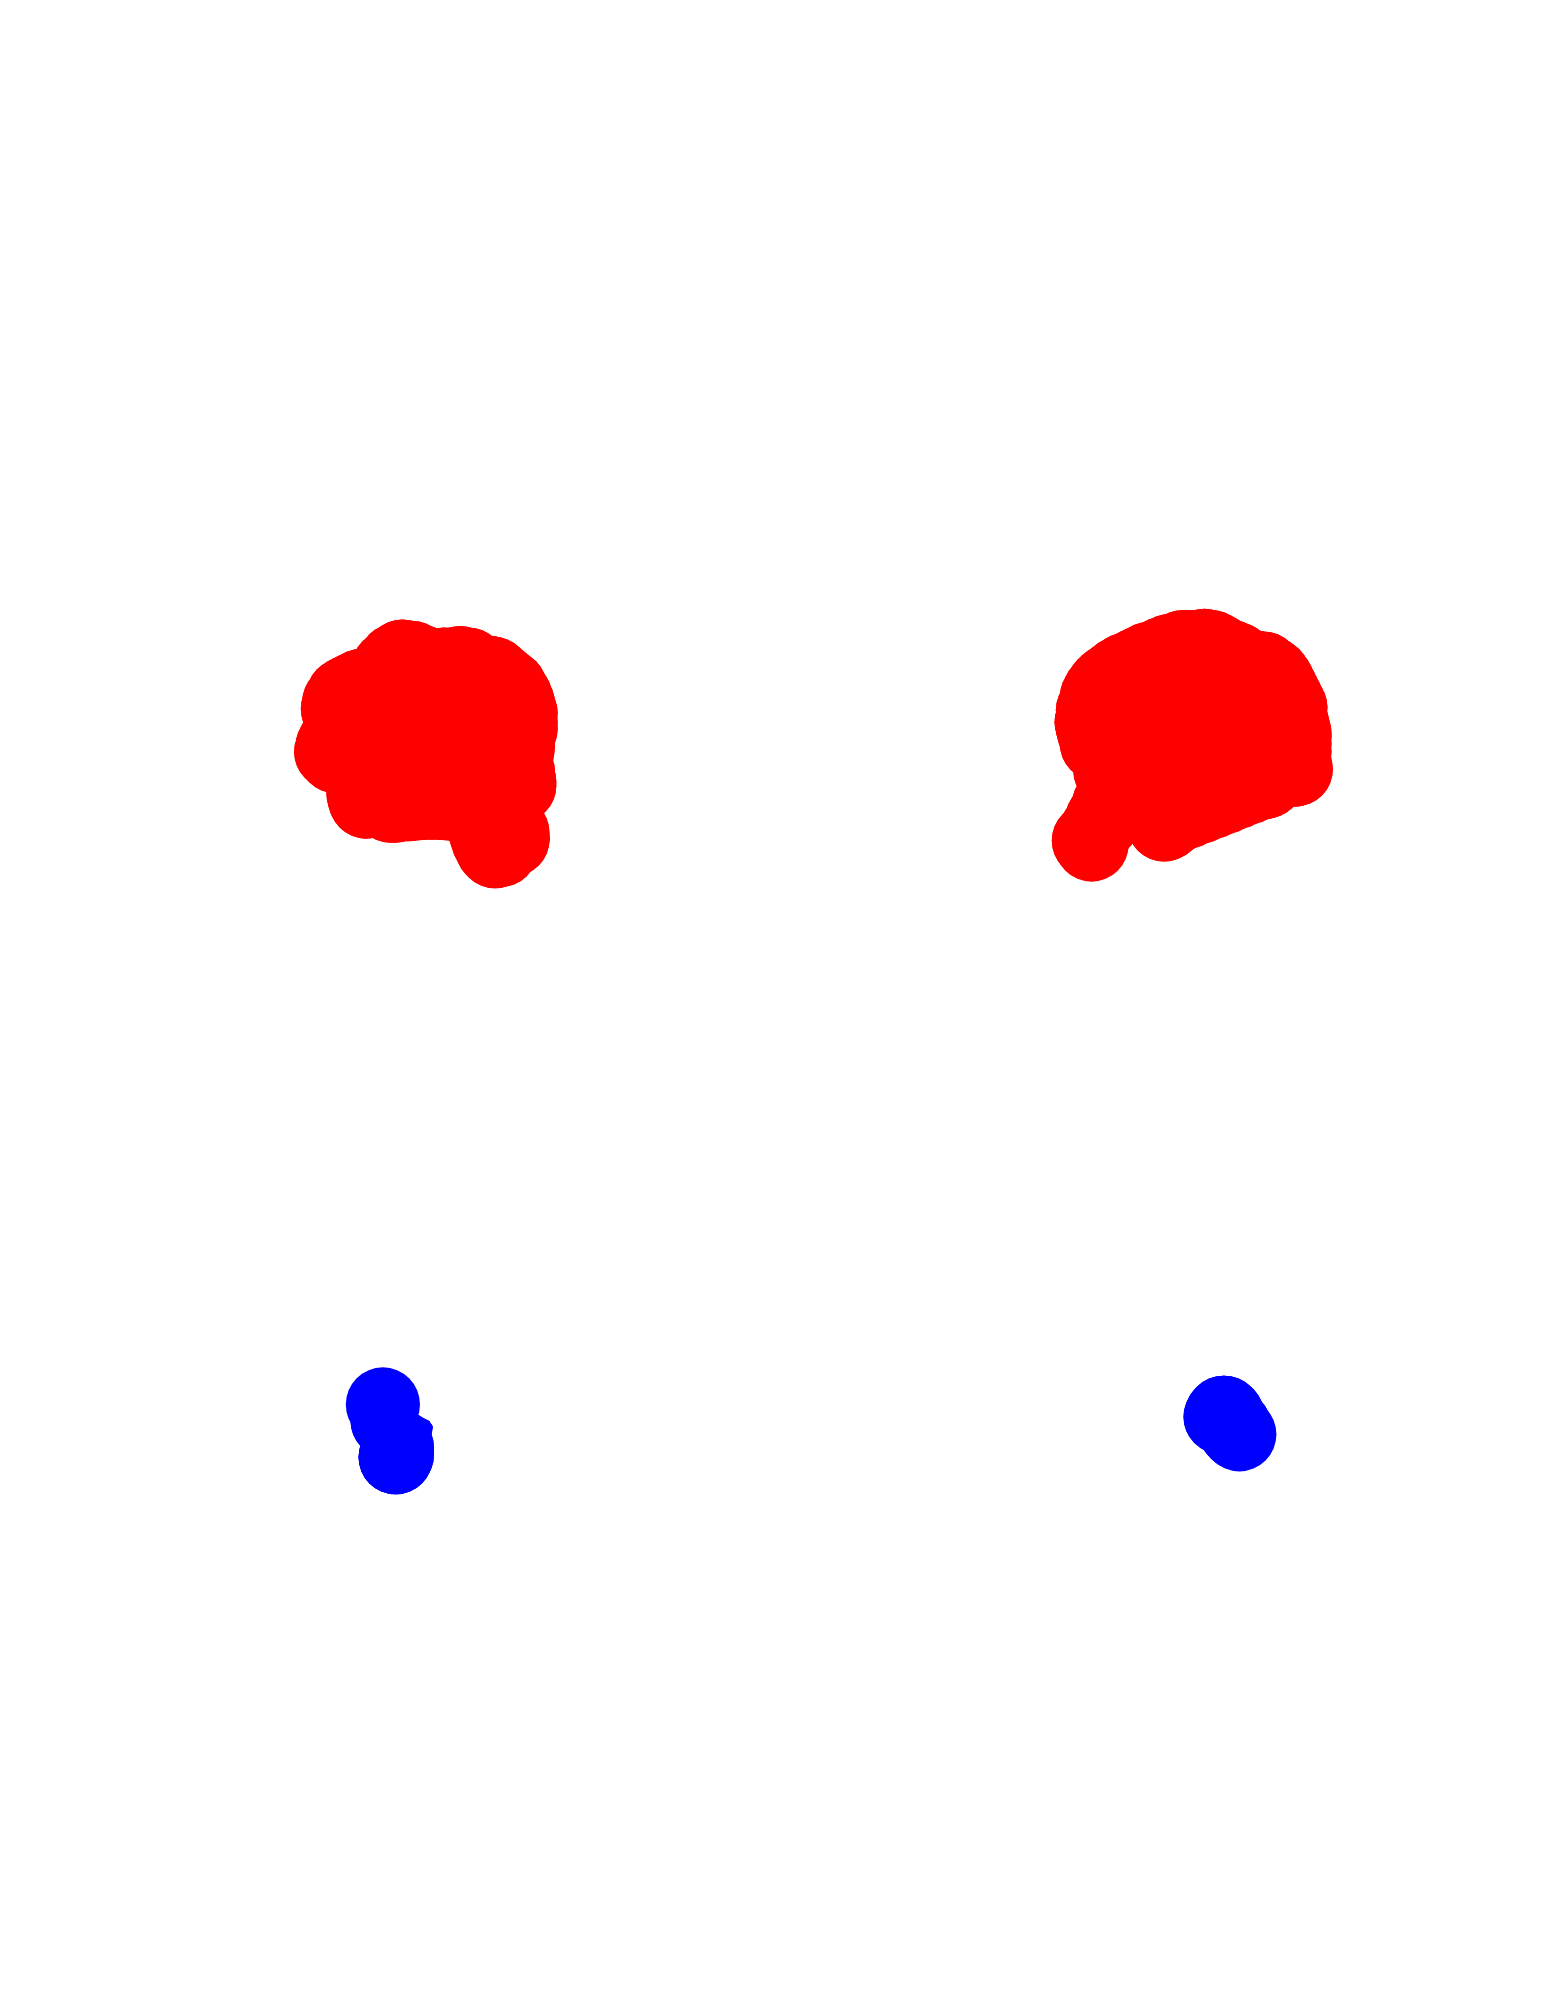
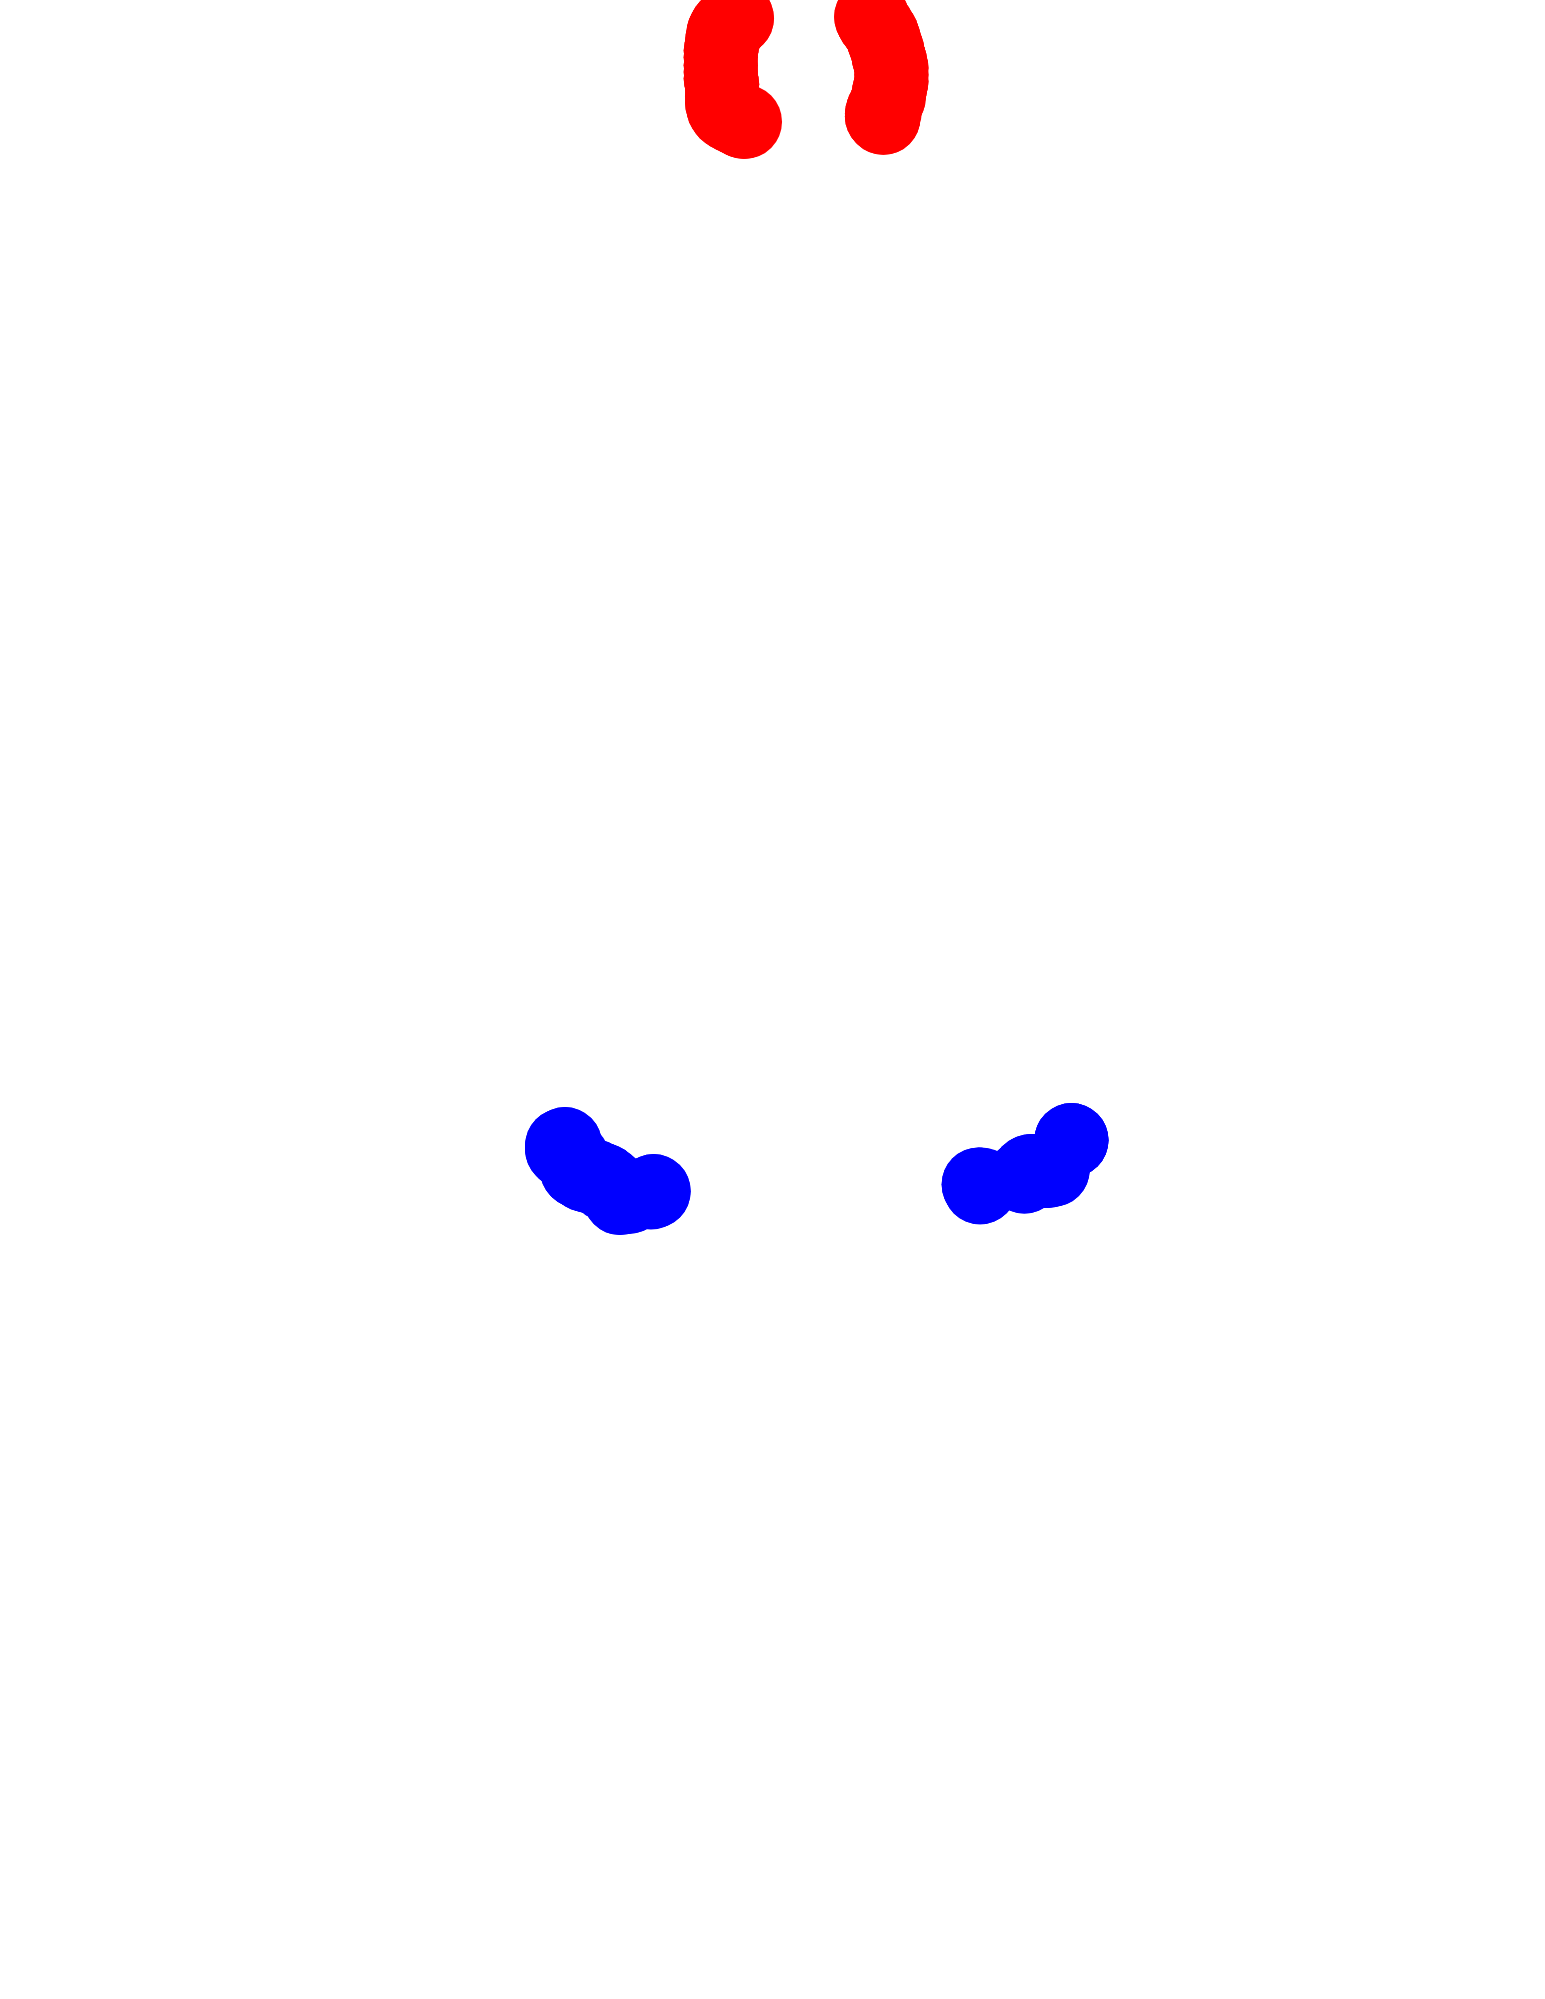
fix U2: intercambiar u2_1_marcas y u2_3_marcas (ilíaco/psoas menor estaban invertidos); sw v156
Claude-Session: https://claude.ai/code/session_01U6x1jDioWnQK6aomQduB9Z

diff --git a/atlas-muscular-web/sw.js b/atlas-muscular-web/sw.js
@@ -1,4 +1,4 @@
-const CACHE='atlas-muscular-v155';
+const CACHE='atlas-muscular-v156';
 const FILES=["./", "index.html", "app.css", "app.js", "manifest.webmanifest", "pages.json", "map.json", "audio/cuento_u1.mp3", "bb_logo.png", "bg_wm.jpg", "reto/u1_cover.png", "reto/u2_cover.png", "reto/u3_cover.png", "reto/u1_1_hueso.jpg", "reto/u1_1_huellas.jpg", "reto/u1_1_musculo.jpg", "reto/u1_1_marcas.png", "reto/u1_2_hueso.jpg", "reto/u1_2_huellas.jpg", "reto/u1_2_musculo.jpg", "reto/u1_2_marcas.png", "reto/u1_3_hueso.jpg", "reto/u1_3_huellas.jpg", "reto/u1_3_musculo.jpg", "reto/u1_3_marcas.png", "reto/u1_4_hueso.jpg", "reto/u1_4_huellas.jpg", "reto/u1_4_musculo.jpg", "reto/u1_4_marcas.png", "reto/u1_5_hueso.jpg", "reto/u1_5_huellas.jpg", "reto/u1_5_musculo.jpg", "reto/u1_5_marcas.png", "reto/u1_6_hueso.jpg", "reto/u1_6_huellas.jpg", "reto/u1_6_musculo.jpg", "reto/u1_6_marcas.png", "reto/u2_toca_clean.png", "reto/u2_oi_base.png", "reto/u2_1_marcas.png", "reto/u2_2_marcas.png", "reto/u2_3_marcas.png", "reto/u3_toca_clean.png", "reto/u3_oi_base.png", "icons/icon-192.png", "icons/icon-512.png", "icons/icon-maskable-512.png", "icons/apple-180.png", "pages/p01.jpg", "pages/p02.jpg", "pages/p03.jpg", "pages/p04.jpg", "pages/p05.jpg", "pages/p06.jpg", "pages/p07.jpg", "pages/p08.jpg", "pages/p09.jpg", "pages/p09_lab.png", "pages/p09_top.png", "pages/p10.jpg", "pages/p10_lab.png", "pages/p10_top.png", "pages/p11.jpg", "pages/p11_lab.png", "pages/p11_top.png", "pages/p12.jpg", "pages/p12_lab.png", "pages/p12_top.png", "pages/p13.jpg", "pages/p13_lab.png", "pages/p13_top.png", "pages/p14.jpg", "pages/p14_lab.png", "pages/p14_top.png", "pages/p15.jpg", "pages/p15_lab.png", "pages/p15_top.png", "pages/p16.jpg", "pages/p16_lab.png", "pages/p17.jpg", "pages/p18.jpg", "pages/p19.jpg", "pages/p19_lab.png", "pages/p19_top.png", "pages/p20.jpg", "pages/p20_lab.png", "pages/p20_top.png", "pages/p21.jpg", "pages/p21_lab.png", "pages/p21_top.png", "pages/p22.jpg", "pages/p22_lab.png", "pages/p22_top.png", "pages/p23.jpg", "pages/p23_lab.png", "pages/p23_top.png", "pages/p24.jpg", "pages/p25.jpg", "pages/p26.jpg", "pages/p26_lab.png", "pages/p26_top.png", "pages/p27.jpg", "pages/p27_lab.png", "pages/p27_top.png", "pages/p28.jpg", "pages/p28_lab.png", "pages/p28_top.png", "pages/p29.jpg", "pages/p29_lab.png", "pages/p29_top.png", "pages/p30.jpg", "pages/p30_lab.png", "pages/p30_top.png", "pages/p31.jpg", "pages/p31_lab.png", "pages/p31_top.png", "pages/p32.jpg", "pages/p32_lab.png"];
 self.addEventListener('install',e=>{self.skipWaiting();e.waitUntil(caches.open(CACHE).then(c=>c.addAll(FILES)).catch(()=>{}));});
 self.addEventListener('message',e=>{if(e.data&&e.data.type==='SKIP_WAITING')self.skipWaiting();});
